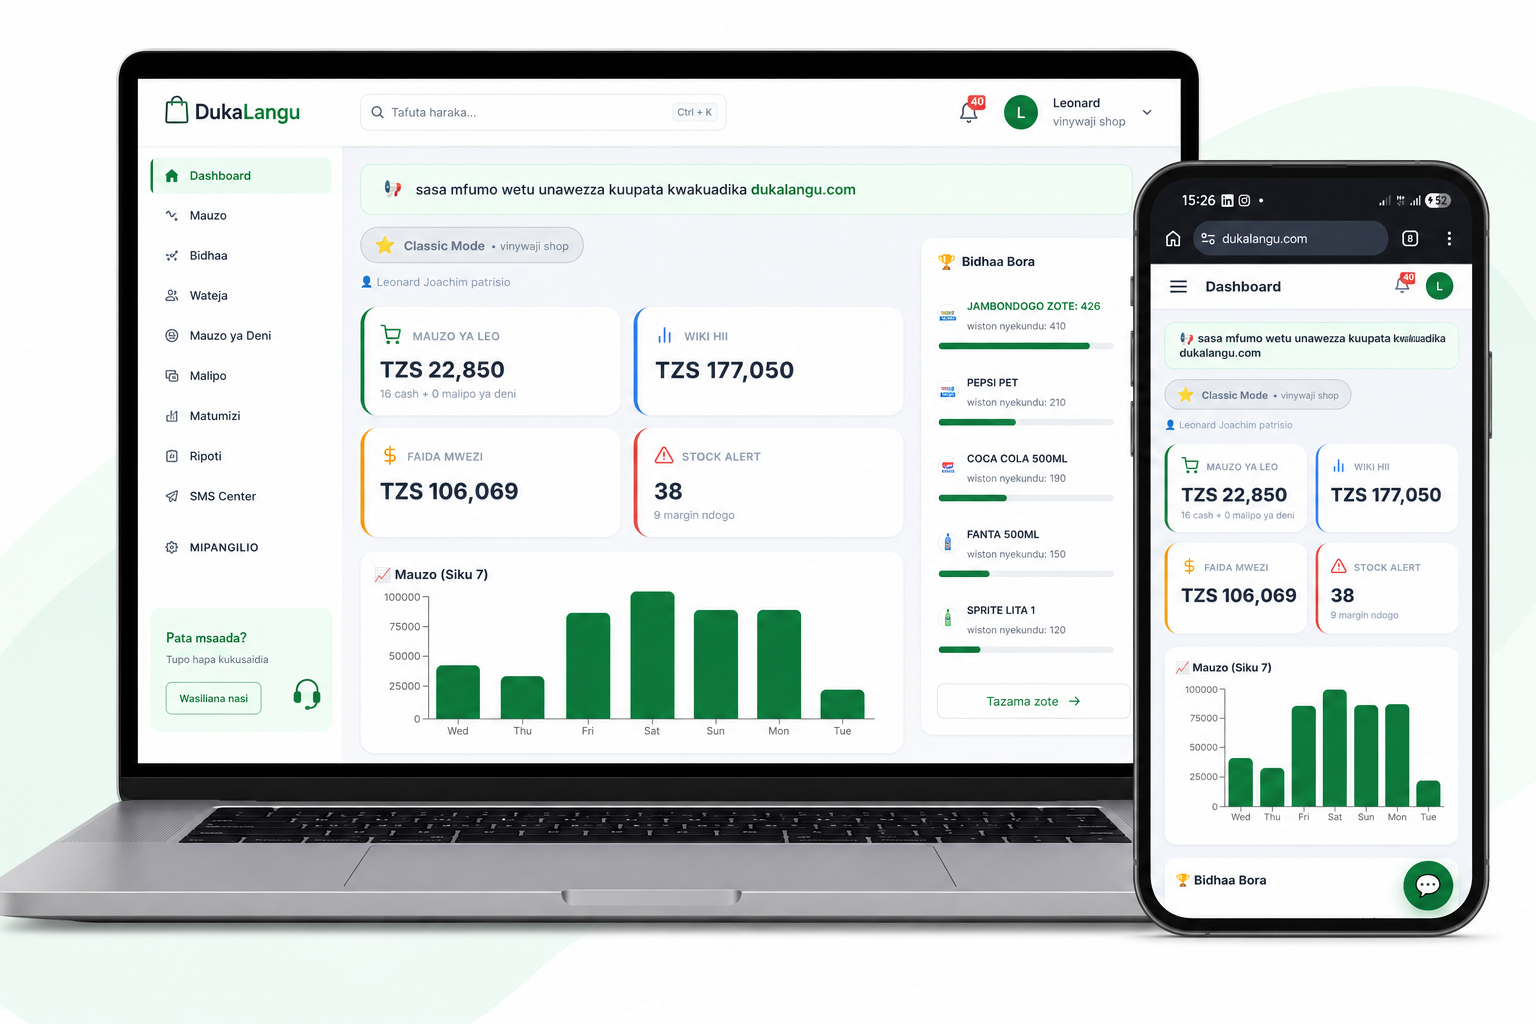
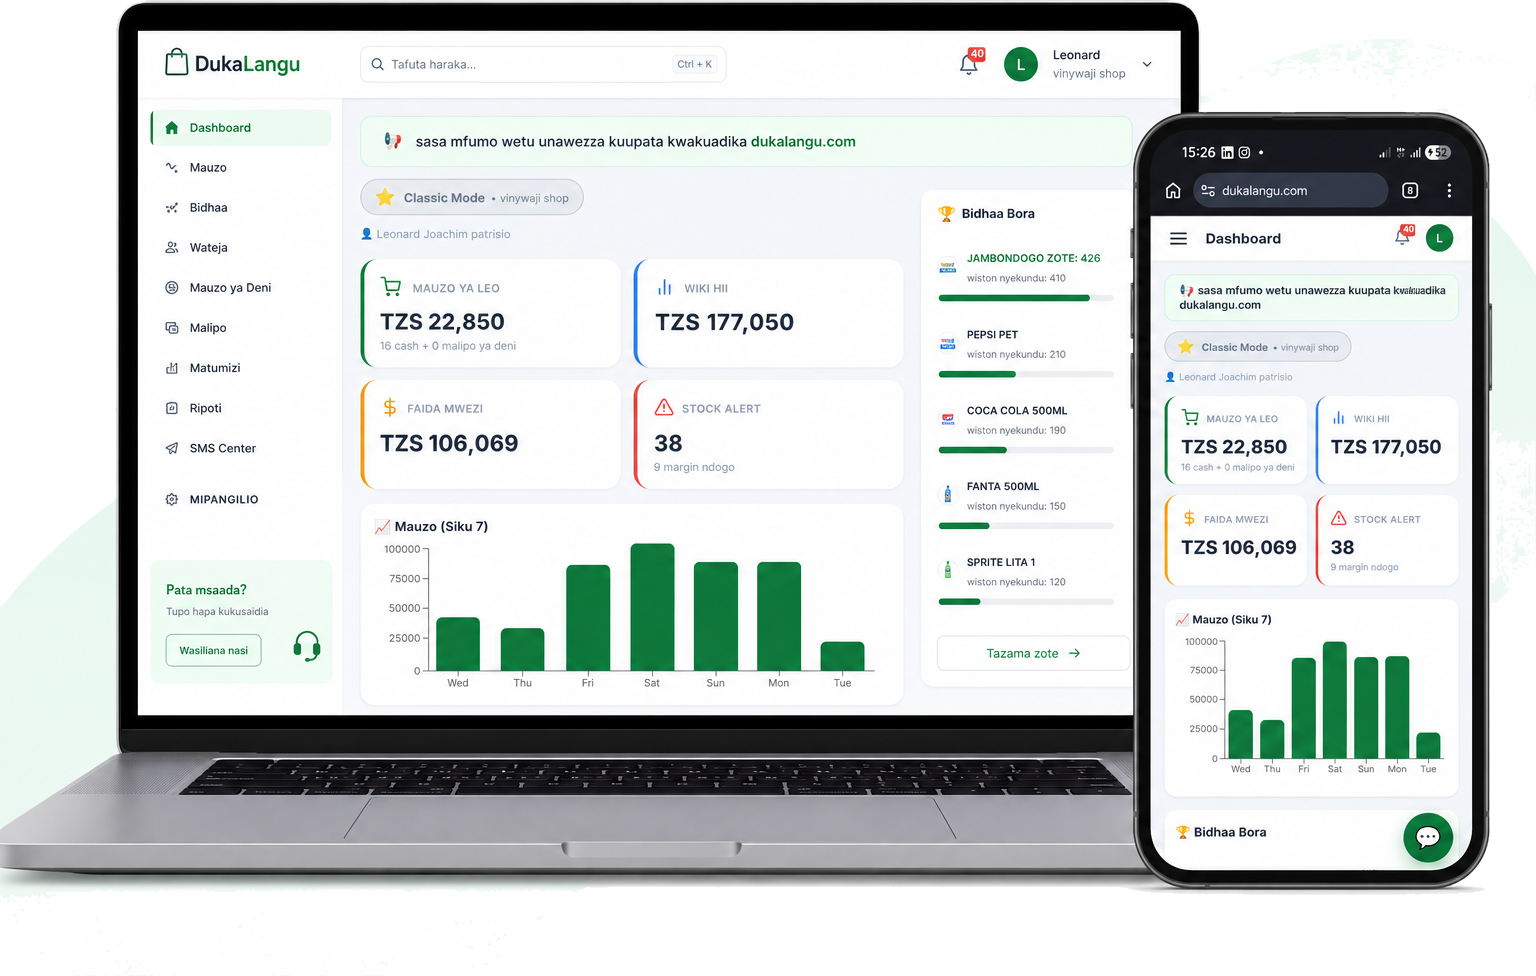
feat: landing page - transparent preview image, better layout, 10 FAQs, 11 testimonials, 2 pricing tiers

diff --git a/src/pages/LandingPage.jsx b/src/pages/LandingPage.jsx
@@ -102,14 +102,19 @@ export default function LandingPage({onLogin,onSignup,onDemo}){
           </div>
           {/* PICHA YA MFUMO (Laptop + Simu) */}
           <div className="hero-img" style={{flex:'1 1 500px',minWidth:280,display:'flex',justifyContent:'center',animation:'fadeInRight 1s ease 0.3s both'}}>
-            <div style={{position:'relative',width:'100%',maxWidth:660,animation:'float 5s ease-in-out infinite'}}>
-              <div style={{position:'absolute',inset:'-8%',borderRadius:'50%',background:'rgba(255,255,255,0.12)',filter:'blur(50px)',animation:'pulse 3s ease-in-out infinite'}}/>
+            <div style={{position:'relative',width:'100%',maxWidth:740,animation:'float 6s ease-in-out infinite'}}>
+              {/* Mwanga wa nyuma */}
+              <div style={{
+                position:'absolute',inset:'-10% -6%',
+                background:'radial-gradient(ellipse at center, rgba(255,255,255,0.18) 0%, rgba(255,255,255,0.05) 45%, transparent 70%)',
+                filter:'blur(40px)',animation:'pulse 4s ease-in-out infinite',
+              }}/>
               <img
                 src="/dukalangu-preview.png"
                 alt="DukaLangu — Dashboard kwenye Laptop na Simu"
                 style={{
                   position:'relative',width:'100%',height:'auto',display:'block',
-                  filter:'drop-shadow(0 25px 50px rgba(0,0,0,0.35))',
+                  filter:'drop-shadow(0 30px 60px rgba(0,0,0,0.45)) drop-shadow(0 8px 20px rgba(0,0,0,0.25))',
                 }}
               />
             </div>
